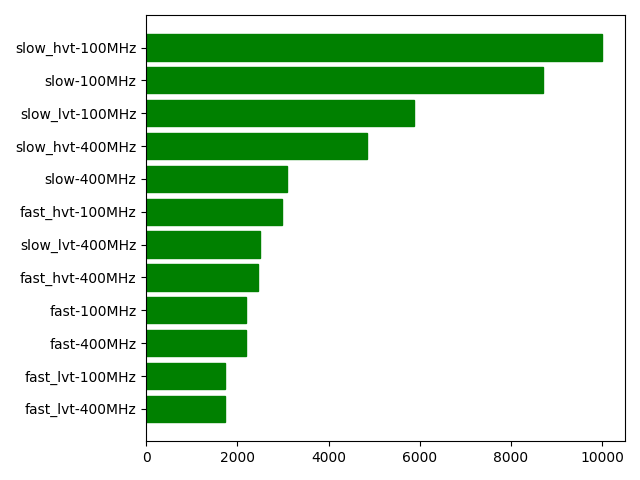
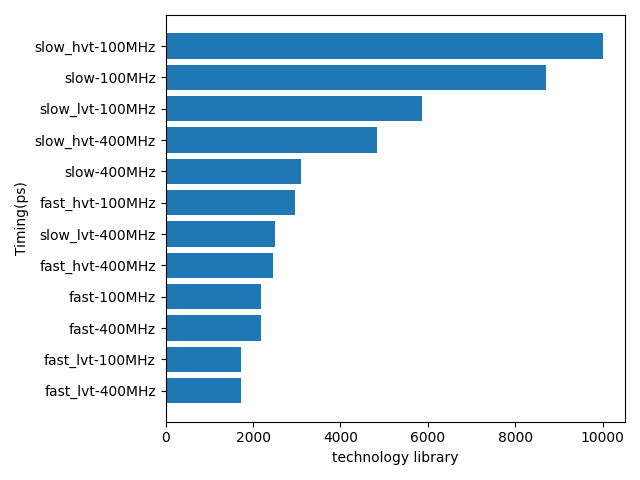
added corner figures

diff --git a/area_parser.py b/area_parser.py
@@ -244,10 +244,14 @@ def analyze_benchmark_reports(benchmark_name):
         except Exception as e:
             print(f"Error processing corner {corner}: {e}")
 
-def plot_barh(data, sfile):
+def plot_barh(data, sfile, xlabel, ylabel, angle=None):
     os.makedirs(os.path.dirname(sfile), exist_ok=True)
     data.sort(key=lambda tup: tup[1])
-    plt.barh([_[0] for _ in data], [_[1] for _ in data], color="green", edgecolor='green')
+    plt.barh([_[0] for _ in data], [_[1] for _ in data])
+    plt.xlabel(xlabel)
+    plt.ylabel(ylabel)
+    if angle:
+        plt.xticks(rotation=angle)
     plt.tight_layout()
     plt.savefig(sfile)
     plt.clf()
@@ -276,10 +280,10 @@ def analyze_benchmark_reports(benchmark_name:str):
         area_plt.append((corner, area))
         timing_plt.append((corner, timing))
         power_plt.append((corner, power))
-        
-    plot_barh(area_plt, f'figs/{benchmark_name}/area.png')
-    plot_barh(timing_plt, f'figs/{benchmark_name}/timing.png')
-    plot_barh(power_plt, f'figs/{benchmark_name}/power.png')
+
+    plot_barh(area_plt, f'figs/{benchmark_name}/area.png', 'technology library', 'Area($\\mu m^2$)')
+    plot_barh(timing_plt, f'figs/{benchmark_name}/timing.png', 'technology library', 'Timing(ps)')
+    plot_barh(power_plt, f'figs/{benchmark_name}/power.png', 'technology library', 'Power(W)', 30)
 
     # 2. Comparison of area/timing/power by frequency
     print("\n\t2. Frequency Comparison:")
